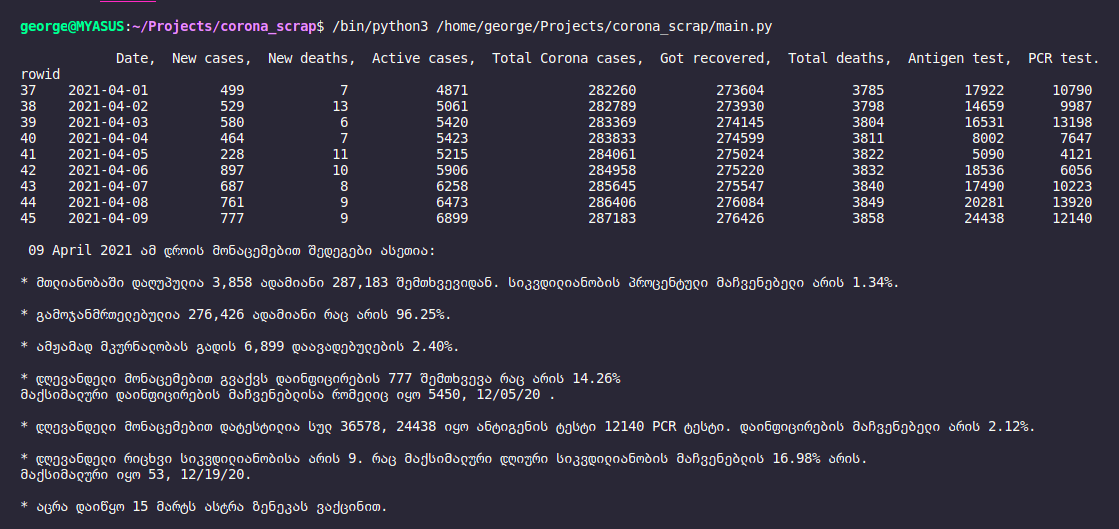
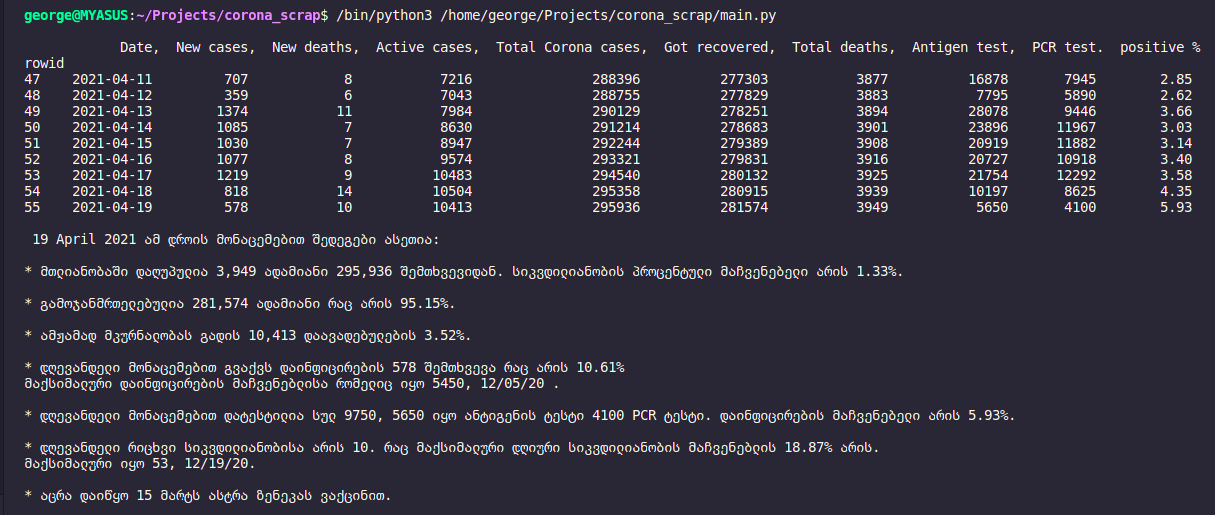
19.04 added test positive column

Changed region(s): [[0.0, 0.0, 1.0, 0.9942], [0.9419, 0.1553, 1.0, 0.435], [0.2735, 0.1553, 0.3342, 0.2485]]

diff --git a/main.py b/main.py
@@ -15,7 +15,7 @@ def corona_statistics():
     wsoup = BS(ge_result.text, features='lxml')
 
     # colect data
-    new_cases= int(soup.select(".news_li strong")[0].getText().split()[0])
+    new_cases= int(soup.select(".news_li strong")[0].getText().split()[0].replace(",",""))
     new_deaths= int(soup.select(".news_li strong")[1].getText().split()[0])
     total_deaths = int(soup.select(".maincounter-number span")[1].getText().replace(",","").replace(" ",""))
     total_corona_cases=int(soup.select(".maincounter-number  span")[0].getText().replace(",","").replace(" ",""))
@@ -78,7 +78,7 @@ def print_data():
 
 def dataframe():
     import pandas as pd
-    from pandas import DataFrame
+    #from pandas import DataFrame
     conn = sqlite3.connect("coronadata.dt")
     sql_query = ''' SELECT rowid,* FROM stats; '''
 
@@ -90,9 +90,10 @@ def dataframe():
     # convert last two columns object to int
     my_data_frame['PCR test.']=my_data_frame['PCR test.'].astype('int32')
     my_data_frame['Antigen test,']=my_data_frame['Antigen test,'].astype('int32')
+    my_data_frame['positive %']=round((my_data_frame['New cases,'] *100) / (my_data_frame['Antigen test,']+my_data_frame['PCR test.']),2)
     #print(my_data_frame.dtypes)
 
-    #print("\n",my_data_frame)
+    #print("\n",my_data_frame['New deaths,'].value_counts())
     print("\n",my_data_frame.tail(9))
     #print("\n", my_data_frame.describe()) # describe 
     #print('\n', my_data_frame.info())
